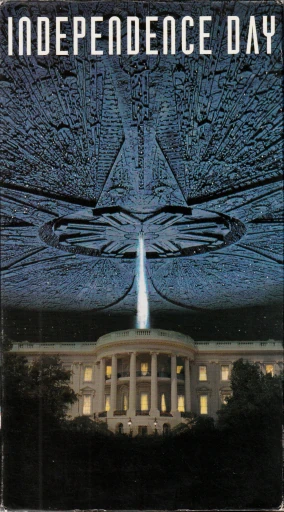
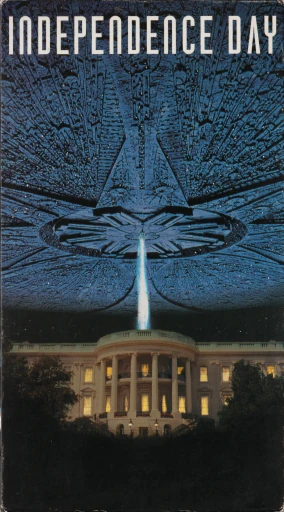
07/19/25 - Revision 1
-Added additional scans of VHS tape fronts and spines
-Began work on the VHS movie shelf page
-Added the \movies directory
-Added vhsmovies.html
-Added vhstapes.json
-Added additional photos to the photos folder

diff --git a/pages/movies/vhsmovies.html b/pages/movies/vhsmovies.html
@@ -1,0 +1,178 @@
+<head>
+    <script src="/head-inject.js"></script>
+
+    <title>Tapes</title>
+    <link rel="stylesheet" type="text/css" href="/assets/css/win98.css"/>
+    <link rel="stylesheet" type="text/css" href="/assets/css/music.css"/>
+    <link rel="stylesheet" type="text/css" href="/assets/css/movies.css"/>
+
+    <style>
+        /*
+        .grid-box-album
+        {
+            flex: 5%;
+            word-wrap: break-word;
+        }
+            */
+
+        .grid-box-album img
+        {
+            object-fit: fill;
+            max-width: 100%;
+            min-width: 100%;
+            height:auto;
+            flex-grow:1;
+        }
+
+        /*
+        .body-box .grid-box-container
+        {
+            display:flex;
+            flex-wrap:wrap;
+            align-items: start;
+            justify-content: start;
+        }
+
+        /*
+        #tapecontainer img:last-child
+        {
+            display:flex;
+            flex-basis: 100%;
+            align-items: start;
+            justify-content: start;
+
+            max-width :20%;
+        }
+        */
+
+        .grid-box-container > *
+        {
+            text-align: center;
+        }
+
+        .body-box img
+        {
+            padding:0;
+            border: none;
+        }
+/*
+        @media(max-width:900px)
+        {
+            .body-box .grid-box-container
+            {
+                flex-direction: row;
+                word-wrap: break-word;
+            }
+
+            /*
+            #tapecontainer img:last-child
+            {
+                min-width: 33%;
+                max-width: 33%;
+                width: 33%;
+                flex-basis:100%;
+            }
+            */
+/*
+            .grid-box-album
+            {
+                flex: 20%;
+            }
+        }
+
+        @media(max-width:600px)
+        {
+            .body-box .grid-box-container
+            {
+                flex-direction: row;
+                word-break: break-all;
+                word-wrap: break-word;
+                font-size: 1.0em;
+            }
+
+            #tapecontainer img:last-child
+            {
+                min-width: 50%;
+                max-width: 50%;
+                width: 50%;
+                flex-basis:100%;
+            }
+
+            .grid-box-album
+            {
+                flex: 50%;
+            }
+        }
+
+                /*overrides*//*
+                .ImageHeader-Text
+        {
+            line-height: 1.90em;
+        }
+
+        .ImageHeader img
+        {
+            height:40vw;
+            width:100%;
+            object-fit:cover;
+        }
+
+        @media (max-width: 600px)
+        {
+            .ImageHeader img
+            {
+                height: 80vw;
+            }
+
+            .ImageHeader-Text
+            {
+                font-size: 1.2em;
+            }
+        }
+        */
+    </style>
+</head>
+
+<body>
+    <main>
+        <div class="maincontent-centred" style="min-height:60vh;">
+            <!--Music Page Header-->
+            <div class="header-one-box outsideborder">
+                <h1>Tapes</h1>
+                <img src="./assets/images/dsotm_256.webp">
+            </div>
+            <div class="ImageHeader outsideborder">
+                <div class="insideborder">
+                    <img src="/assets/pictures/DSC_139057.webp">
+                </div>
+                <div class="ImageHeader-Text"><h1>Cassette Tapes</h1></div>
+                <div class="ImageHeader-MyPhoto">Photo: MichaelsCybersite.net, 2024</div>
+            </div>
+
+            <div class="body-box outsideborder stacked">
+                <div class="box-container">
+                    <p></p>
+                </div>
+                <div id="tapecontainer" class="grid-box-container">
+                </div>
+            </div>
+
+            <script>
+                // Get images
+                fetch("./assets/json/vhstapes.json")
+                    .then(response => response.json())
+                    .then(data => {
+                        const albumContainer = document.getElementById("tapecontainer");
+
+                        data.forEach(tape => {
+                            const img = document.createElement("img");
+                            img.src = tape.imagespine;
+                            img.alt = `${tape.name} (${tape.year})`;
+                            img.classList.add('grid-box-album');
+                            albumContainer.appendChild(img);
+                        });
+                    })
+                    .catch(error => console.error("Error loading VHS spine images:", error));
+            </script>
+    </main>
+</body>

diff --git a/pages/main/changelog.html b/pages/main/changelog.html
@@ -17,6 +17,13 @@
             <h1>
                 The Changelog 
             </h1>
+            <h2>07/19/25–1 Commit</h2>
+                <li>Added additional scans of VHS tape fronts and spines</li>
+                <li>Began work on the VHS movie shelf page</li>
+                <li>Added the \movies directory</li>
+                <li>Added vhsmovies.html</li>
+                <li>Added vhstapes.json</li> 
+                <li>Added additional photos to the photos folder</li> 
             <h2>07/18/25–1 Commit</h2>
                 <li>Reset the Terminator counter in the Movies section</li>
                 <li>Added eighteen new albums to the album waterfall</li>
